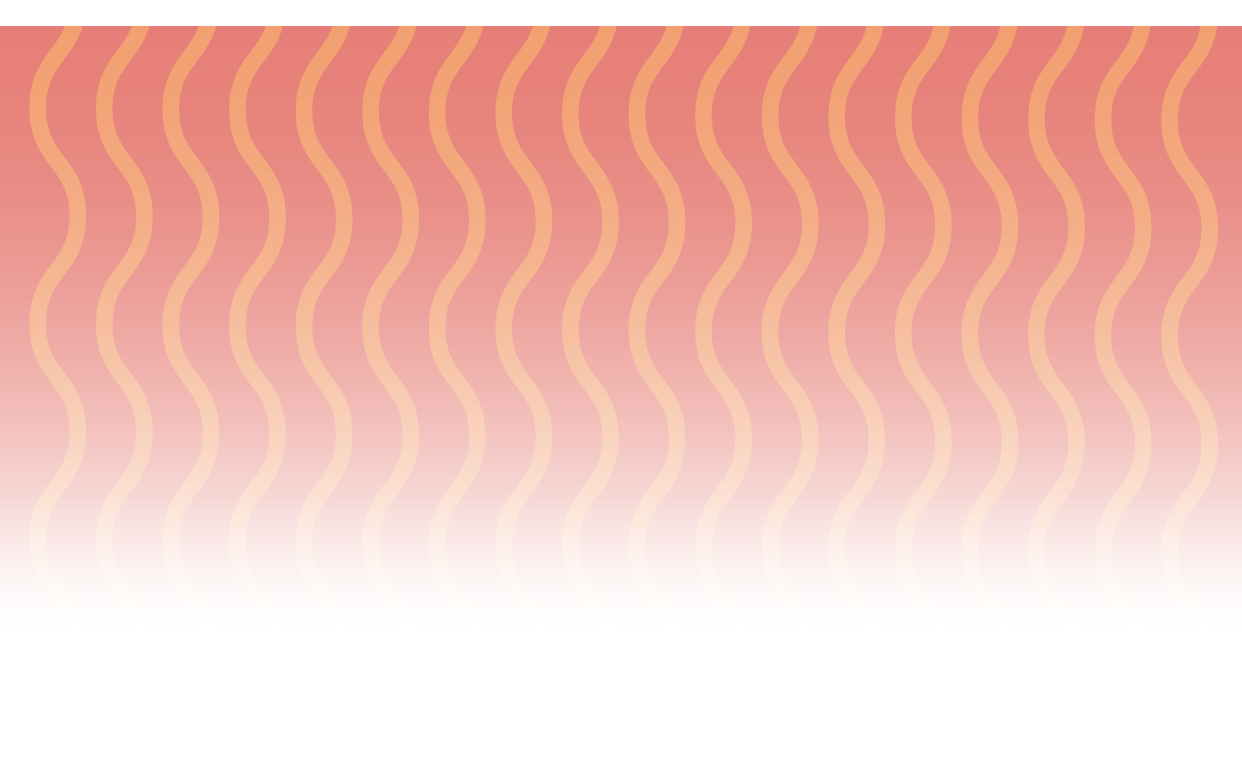
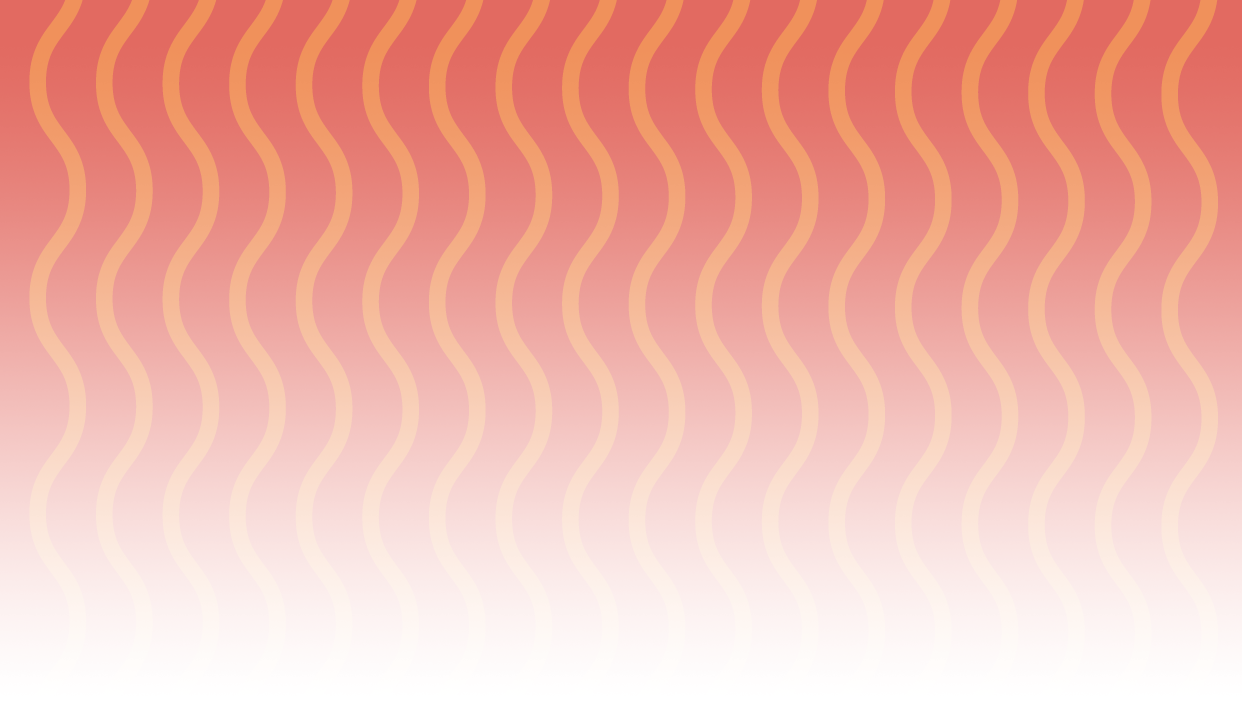
Updating headers

diff --git a/app/screens/Tabs/Stats/StatsDetails/StatsDetails.template.tsx b/app/screens/Tabs/Stats/StatsDetails/StatsDetails.template.tsx
@@ -13,13 +13,13 @@ const StatsDetailsTemplate: React.FC = () => {
             <ScrollView style={Colors.systemBackground} >
 
                 <ImageBackground
-                    source={require('cooper-app/assets/category_headers/temperatures.png')}
-                    style={{ width: '100%', height: undefined, aspectRatio: 16 / 9, justifyContent: 'flex-end' }}
+                    source={require('cooper-app/assets/category_headers/vegetation.png')}
+                    style={{ width: '100%', height: undefined, aspectRatio: 1242 / 707, justifyContent: 'flex-end' }}
                 >
                     <Text style={{
                         fontFamily: 'Circular', fontSize: 36, color: '#e26a61', paddingLeft: 10,
-                        paddingBottom: 50
-                    }}> Temperatures</Text>
+                        paddingBottom: 30
+                    }}> Temperaturesa</Text>
                 </ImageBackground>
 
                 <View style={statsDetailsStyles.Content}>
